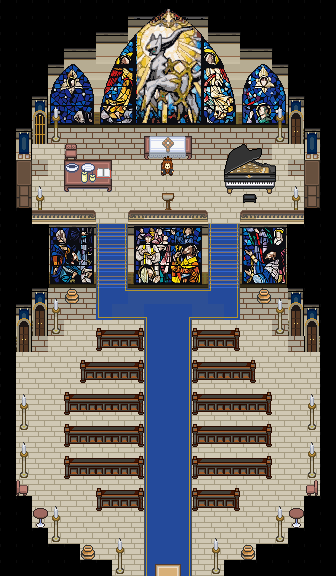
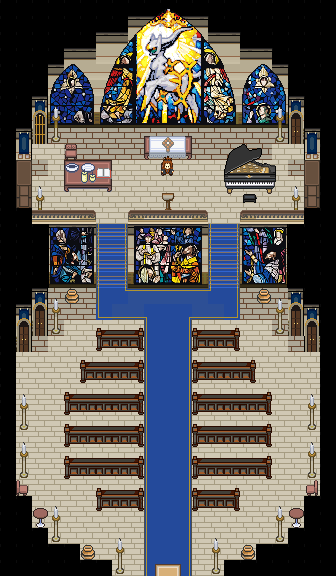
Templar Citadel nave: stained-glass Arceus in Empire's exact glass colours
The nearest-colour swap came out khaki, grey and dusty (user: Empire's gold cells
are (240,184,48)/(243,192,39); the white skin and the background cells too).
Now every pixel of the design is read for what it is (white body, cream halo,
yellow rays, gold wheel, blue, red, green) and given Empire's own glass of that
family, the design's light and shade choosing the shade; dark pixels are Empire's
lead. Every colour is one found in Empire's windows. Also stops the arch fill
leaking onto the wall. Bible updated.

Claude-Session: https://claude.ai/code/session_01FHXnfqnedTHLf5QFbB3MCU

Changed region(s): [[0.3869, 0.0, 0.5952, 0.2188]]

diff --git a/tools/art/templar_hq/glass/arceus_glass.py b/tools/art/templar_hq/glass/arceus_glass.py
@@ -1,85 +1,101 @@
-"""The great window's central light: Arceus in true stained glass, from the user's design (2026-11-23: "look at the
-original Arceus I shared, look at each color on it, then replace that pixel with the appropriately colored stained
-glass cell").
-A straight pixel-for-pixel swap, no re-cutting into panes:
-1. Empire's glass colours: every glass pixel of Empire's windows (the great window's side lights and its tileset's
-   glass), clustered in Lab into ~32 glasses; each glass is its cluster's median, so it is a colour Empire's windows
-   really use. Empire's lead is (12, 13, 18).
-2. The design (the user's mockup, registered on the nave mock: scale 2.13, offset (32, 12.5)) is sampled at game
-   pixels (each the average of its patch).
-3. A game pixel is lead where the design is dark there (luminance < 70); every other pixel is the nearest glass (Lab).
-   A lone lead pixel (one lead neighbour or none) is a hairline broken by the scaling, so it takes its glass.
-4. The region is the central light and the arch above it, filled solid between the frames, so none of the old
-   window's lead survives inside it (that leftover lead was what made earlier tries look speckled). The arch is taken
-   row by row between its outermost bright glass near the axis; the side lights and mullions stay Empire's.
+"""The great window's central light: Arceus in true stained glass, from the user's design.
+User 2026-11-23: "look at the original Arceus I shared, look at each color on it, then replace that pixel with the
+appropriately colored stained glass cell"; and, on a try that matched by nearest colour: Empire's gold cells are
+(240,184,48)/(243,192,39), not khaki; the white skin and the background cells too must be Empire's glass.
+So each pixel of the design (registered on the nave mock: scale 2.13, offset (32, 12.5), sampled per game pixel) is
+read for WHAT it is, then given Empire's own glass for that:
+- dark (luminance < 70) -> Empire's lead (12,13,18); lone lead specks are dropped (hairlines broken by scaling);
+- by hue and saturation -> a glass family: white (Arceus's body), pale (the halo's cream), yellow (the rays), gold
+  (the wheel, the hooves), blue, red, green (eyes, jewels);
+- within a family, the design's lightness picks the shade (its quantiles over the light), dark -> light.
+Every family's shades are exact colours found in Empire's windows (the great window and its tileset's glass), so
+nothing is a blend. The light and the arch above it are filled solid between their frames (none of the old figure's
+lead survives); the arch is taken row by row and can only narrow toward its tip; the side lights stay Empire's.
 Usage: python3 arceus_glass.py MOCK.png OUT.png [LEAD_THRESHOLD]"""
-import sys, os
-import numpy as np
-from PIL import Image
-from skimage.color import rgb2lab
-from scipy.cluster.vq import kmeans2
-REPO = os.path.normpath(os.path.join(os.path.dirname(os.path.abspath(__file__)), '..', '..', '..', '..'))
-EMP = os.path.join(REPO, 'assets/templar_hq_reference/empire')
-USER = os.path.join(EMP, 'user_arceus_window_mockup.png')
-S, OX, OY = 2.13, 32.0, 12.5
-X0, X1, Y0, Y1 = 104, 232, 0, 128
-CX0, CX1, ARCH = 137, 202, 34
-LEAD = np.array((12, 13, 18))
-K = 32
-STONE = {(182, 172, 146), (192, 182, 156), (196, 186, 160), (200, 190, 164), (112, 104, 86), (132, 105, 66),
-         (148, 105, 74), (88, 80, 70), (54, 45, 24), (38, 32, 17), (33, 32, 33), (0, 0, 0)}
-lum = lambda a: .30 * a[..., 0] + .59 * a[..., 1] + .11 * a[..., 2]
-
-def main(mock, out, T=70.0):
-    m = np.array(Image.open(mock).convert('RGB')).astype(int)
-    win = m[Y0:Y1, X0:X1]
-    is_stone = np.array([[tuple(p) in STONE for p in r] for r in win])
-    glass = np.zeros(win.shape[:2], bool)
-    for y in range(win.shape[0]):
-        xs = np.nonzero(~is_stone[y])[0]
-        if len(xs): glass[y, xs.min():xs.max() + 1] = True
-    glass &= ~is_stone
-    xx = np.arange(X0, X1)[None]; yy = np.arange(Y0, Y1)[:, None]
-    region0 = glass & (((xx >= CX0) & (xx < CX1)) | (yy < ARCH))
-    # 1. Empire's glasses
-    pix = [win[glass & ~region0]]
-    tb = np.array(Image.open(os.path.join(EMP, 'empire_church_tileset_b.png')).convert('RGBA'))[0::2, 0::2].astype(int)[:250, :100]
-    ta = np.array(Image.open(os.path.join(EMP, 'empire_church_tileset_a.png')).convert('RGBA'))[0::2, 0::2].astype(int)[75:224]
-    for t in (tb, ta): pix.append(t[t[..., 3] > 0][:, :3])
-    P = np.concatenate(pix); P = P[lum(P) >= 45]
-    _, lab = kmeans2(rgb2lab((P / 255.)[None])[0], K, minit='++', seed=3, iter=50)
-    pal = np.array([np.median(P[lab == j], 0) for j in range(K) if (lab == j).sum() > 20]).astype(int)
-    pal = pal[lum(pal) >= 70]                      # glass only; everything darker is lead
-    PL = rgb2lab((pal / 255.)[None])[0]
-    # 4. the region, filled solid between the frames
-    region = np.zeros_like(region0)
-    for y in range(region0.shape[0]):
-        xs = np.nonzero(region0[y])[0]
-        if len(xs): region[y, xs.min():xs.max() + 1] = True
-    ax = (CX0 + CX1) // 2 - X0
-    inside = np.zeros_like(region); bright = lum(win) > 60
-    for y in range(ARCH):
-        xs = np.nonzero(bright[y])[0]; xs = xs[np.abs(xs - ax) <= 35]
-        if len(xs): inside[y, xs.min():xs.max() + 1] = True
-    region &= inside | (yy >= ARCH)
-    # 2. the design at game pixels
-    u = Image.open(USER).convert('RGB'); pad = Image.new('RGB', (u.size[0] + 200, u.size[1] + 200)); pad.paste(u, (100, 100))
-    box = tuple(v + 100 for v in (X0 * S - OX, Y0 * S - OY, X1 * S - OX, Y1 * S - OY))
-    smp = np.array(pad.resize((X1 - X0, Y1 - Y0), Image.BOX, box=box)).astype(int)
-    # 3. each pixel to its glass, or lead
-    idx = ((rgb2lab(smp / 255.)[:, :, None, :] - PL[None, None]) ** 2).sum(-1).argmin(-1)
-    g = pal[idx]; lead = lum(smp) < T
-    g[lead] = LEAD
-    H, W = lead.shape
+import os
+import numpy as np, sys, colorsys
+from PIL import Image, ImageDraw
+from collections import Counter
+REPO=os.path.normpath(os.path.join(os.path.dirname(os.path.abspath(__file__)),'..','..','..','..'))
+EMP=os.path.join(REPO,'assets/templar_hq_reference/empire')+'/'
+S,OX,OY=2.13,32.0,12.5; X0,X1,Y0,Y1=104,232,0,128; CX0,CX1,ARCH=137,202,34
+LEAD=(12,13,18)
+STONE={(182,172,146),(192,182,156),(196,186,160),(200,190,164),(112,104,86),(132,105,66),(148,105,74),(88,80,70),(54,45,24),(38,32,17),(33,32,33),(0,0,0)}
+lum=lambda a:.30*a[...,0]+.59*a[...,1]+.11*a[...,2]
+# Empire's glasses, by family, dark -> light (every one found in Empire's windows)
+FAM={
+ 'white': [(139,148,183),(189,182,197),(202,202,200),(229,227,231),(255,255,254)],
+ 'pale':  [(250,235,196),(255,253,182),(255,255,228)],
+ 'yellow':[(248,221,14),(255,241,19),(255,255,60)],
+ 'gold':  [(186,88,21),(240,184,48),(243,192,39),(248,221,14)],
+ 'blue':  [(28,44,143),(26,60,145),(7,82,172),(20,103,193),(5,124,198),(61,187,234)],
+ 'red':   [(142,24,27),(200,27,28),(224,36,29)],
+ 'green': [(12,125,108)],
+}
+MOCK,OUT=sys.argv[1],sys.argv[2]
+T=float(sys.argv[3]) if len(sys.argv)>3 else 70
+m=np.array(Image.open(MOCK).convert('RGB')).astype(int)
+win=m[Y0:Y1,X0:X1]
+is_stone=np.array([[tuple(p) in STONE for p in r] for r in win])
+glass=np.zeros(win.shape[:2],bool)
+for y in range(win.shape[0]):
+    xs=np.nonzero(~is_stone[y])[0]
+    if len(xs): glass[y,xs.min():xs.max()+1]=True
+glass&=~is_stone
+xx=np.arange(X0,X1)[None]; yy=np.arange(Y0,Y1)[:,None]
+r0=glass&(((xx>=CX0)&(xx<CX1))|(yy<ARCH))
+region=np.zeros_like(r0)
+for y in range(r0.shape[0]):
+    xs=np.nonzero(r0[y])[0]
+    if len(xs): region[y,xs.min():xs.max()+1]=True
+ax=(CX0+CX1)//2-X0; inside=np.zeros_like(region)
+wallc={tuple(p) for p in win[0:ARCH,0:8].reshape(-1,3)}|{tuple(p) for p in win[0:ARCH,-8:].reshape(-1,3)}
+bright=(lum(win)>60)&~np.array([[tuple(p) in wallc for p in r] for r in win])
+for y in range(ARCH):
+    xs=np.nonzero(bright[y])[0]; xs=xs[np.abs(xs-ax)<=35]
+    if len(xs): inside[y,xs.min():xs.max()+1]=True
+# an arch only narrows toward its tip: no row wider than the row below it
+for y in range(ARCH-2,-1,-1):
+    inside[y]&=inside[y+1] if inside[y+1].any() else False
+region&=inside|(yy>=ARCH)
+u=Image.open(EMP+'user_arceus_window_mockup.png').convert('RGB'); pad=Image.new('RGB',(u.size[0]+200,u.size[1]+200)); pad.paste(u,(100,100))
+smp=np.array(pad.resize((X1-X0,Y1-Y0),Image.BOX,box=tuple(v+100 for v in (X0*S-OX,Y0*S-OY,X1*S-OX,Y1*S-OY)))).astype(int)
+H,W=smp.shape[:2]
+fam=np.empty((H,W),object); val=np.zeros((H,W))
+for y in range(H):
+    for x in range(W):
+        r,g,b=smp[y,x]/255.; h,s,v=colorsys.rgb_to_hsv(r,g,b); h*=360; val[y,x]=v
+        if lum(smp[y,x])<T: f='lead'
+        elif s<0.20: f='white'
+        elif 38<=h<75 and s<0.50 and v>0.78: f='pale'
+        elif 46<=h<75 and v>=0.72: f='yellow'
+        elif 15<=h<75: f='gold'
+        elif 75<=h<170: f='green'
+        elif 170<=h<290: f='blue'
+        else: f='red'
+        fam[y,x]=f
+# lone specks of a family (no 8-neighbour of the same family) take their neighbours' family
+for _ in range(2):
+    f2=fam.copy()
     for y in range(H):
         for x in range(W):
-            if lead[y, x] and region[y, x] and lead[max(0, y - 1):y + 2, max(0, x - 1):x + 2].sum() - 1 <= 1:
-                g[y, x] = pal[idx[y, x]]
-    outw = win.copy(); outw[region] = g[region]
-    o = m.copy(); o[Y0:Y1, X0:X1] = outw
-    Image.fromarray(o.astype(np.uint8)).save(out)
-    Image.fromarray(o.astype(np.uint8)).resize((o.shape[1] * 2, o.shape[0] * 2), Image.NEAREST).save(out.replace('.png', '_2x.png'))
-    print(f'{len(pal)} glasses + lead; lead {(g[region] == LEAD).all(-1).mean():.2f} of the light')
-
-if __name__ == '__main__':
-    main(sys.argv[1], sys.argv[2], float(sys.argv[3]) if len(sys.argv) > 3 else 70.0)
+            if not region[y,x]: continue
+            nb=[fam[yy_,xx_] for yy_ in range(max(0,y-1),min(H,y+2)) for xx_ in range(max(0,x-1),min(W,x+2)) if (yy_,xx_)!=(y,x)]
+            if fam[y,x] not in nb: f2[y,x]=Counter(nb).most_common(1)[0][0]
+    fam=f2
+out=win.copy()
+for f,shades in FAM.items():
+    sel=(fam==f)&region
+    if not sel.any(): continue
+    vs=val[sel]; n=len(shades)
+    qs=np.quantile(vs,np.linspace(0,1,n+1)[1:-1]) if n>1 else []
+    k=np.searchsorted(qs,val[sel]) if n>1 else np.zeros(sel.sum(),int)
+    out[sel]=np.array(shades)[k]
+out[(fam=='lead')&region]=LEAD
+o=m.copy(); o[Y0:Y1,X0:X1]=out
+Image.fromarray(o.astype(np.uint8)).save(OUT)
+Image.fromarray(o.astype(np.uint8)).resize((o.shape[1]*2,o.shape[0]*2),Image.NEAREST).save(OUT.replace('.png','_2x.png'))
+a=Image.fromarray(smp.astype(np.uint8)); b=Image.fromarray(out.astype(np.uint8))
+c=Image.new('RGB',(W*2+4,H),(20,20,20)); c.paste(a,(0,0)); c.paste(b,(W+4,0))
+c.resize((c.size[0]*4,c.size[1]*4),Image.NEAREST).save(OUT.replace('.png','_vs_design.png'))
+print(Counter(fam[region]).most_common())

diff --git a/bible/20_chapter1_build.md b/bible/20_chapter1_build.md
@@ -254,7 +254,7 @@ Chapter 1 is the template: once its foundations (mechanics, maps, buildings, NPC
     - **Decided (user 2026-11-22):** a dead-end side branch off Route 13's fork (Route 15 east closed by a guard); a curtain wall with an open arch and two guards, no hallway map; the ground **stony with touches of snow** (less snowy than Mirroh or Mt. Mirroh, like Fort Elderflower's paving with drifts). Zone plan v1: `tools/art/templar_hq/layout_sketch.py`. **The church is not Crown's cathedral** (Mirroh's chapel uses it; no other source hack has a second one, survey in `assets/templar_hq_reference/cathedral_options.png`): **the Arceus church from Pokémon Empire's Starlight City** (user-supplied; **credit Pokémon Empire before release**), **its front building only** (user: shed the domed hall behind it): the cross tower, the great dome and the rose-window front, cut at the GBA's scale (the source is a 2x upscale) by `tools/art/templar_hq/church/cut_front.py`, **7x13 tiles, native size** (user). **In Arceus's colours** (user: gold and blue, echoing Arceus): the great dome blue; gold on the ring cradling the cross tower (Arceus's wheel), the dome's ribs, both small dome caps and the cross; cream walls, door and stained glass kept (`colourise.py`; `assets/templar_hq_reference/church_arceus_v1.png`).
     - **The courtyard (mock v6, user 2026-11-22; `tools/art/templar_hq/citadel_mock.py`, `assets/templar_hq_reference/citadel_mock_v6_2x.png`):** built on one axis after studying MonoMyth's and Crown's squares (Watercress Port, Chamomile, Wood Avens, Crown's harbour town: a symmetric axis, the main building raised on a terrace with a centred stair, a framed square, houses in mirrored pairs, nothing scattered) and Fort Elderflower's snow (no trees inside paved courts; pines outside in loose clusters of big and small; broad stepped snow patches in the open stone; walking lines bare). The church on a crenellated terrace, its stair on the axis; **a fountain square** (Crown 3.0's tiered fountain) with **four worn stone Arceus statues on its corners** (the expansion's Arceus follower sprite, its side frame, recoloured to weathered grey stone; the left pair facing left, the right pair right; user); the arch, the road down. **The houses in a dark, deep grey wood** (user: so they stand out; Crown 3.2's timber recoloured, glass and lit windows kept), in mirrored pairs: the Tavern and its twin below, two small houses on ledges above, each up a stair centred on its door. **The west pocket: a sparring ground** (user): a railed yard (Crown's rail fence in the grey wood), MonoMyth's Old Bay target stands, Templars sparring (stage 2). **The east pocket: the Braviary landing ground** (user): a round stone pad inlaid with Arceus's golden wheel (drawn), hay by the wall, **Braviaries moving about in the overworld** (user; the expansion's Braviary follower sprite; stage 2 objects). Access: a 3-wide street runs down from each ledge beside the Tavern and its twin to the square (the user's rule: no squeezing). The gate (mock v6, user 2026-11-22): an open gateway, the curtain wall ending in a round tower each side with nothing across (the wall's top carried over the gap read as a broken wall); outside it a paved apron where the two guards stand, clear of the pines. The landing pad centred in the open square above the Tavern's twin (x 29-33, half a tile down); no hay. **The way east to Route 15 (user 2026-11-22): a whole line of Templar guards across the cleft** (one on each of its three rows) blocks it for now. Spoken to, they say **there has been an incident on Route 15, they are observing the situation, and until something changes nobody is allowed in or out that way** (stage 2: their script; the condition that opens it comes with Route 15's chapter). **The buildings (user 2026-11-22):** the Tavern (lower west), **the barracks** (its twin, lower east), **the armoury** (upper west, above the sparring ground), **the Braviary mews** (upper east, above the landing ground).
     - **Built and walked (2026-11-22):** `MAP_TEMPLAR_CITADEL` (`TemplarCitadel`, 40x40; `tools/art/templar_hq/build_citadel.py` from `citadel_mock.py`; its own tileset pair, 12 palettes, 643 tiles; `MAPSEC_DR_TEMPLAR_HQ`, snow; music for now Route 13's, `MUS_DR_MM_ROUTE15`). **Reached from Route 13's north-east exit by a short fade**, as Hollow Hill's way north reaches Mirroh Gate: triggers on Route 13's top row (x 32-34) warp to the Citadel's road (x 18-20, row 38), and on the Citadel's bottom row back. (A map connection was tried and the Citadel came up scrambled in the game: the engine reloads only the new map's secondary tileset across a connection, since connected maps are meant to share a primary, and draws the neighbour's visible strip with the current map's tiles; the Citadel has its own primary.) Collision: paving and stairs walked on, the landing pad too; cliffs, walls, buildings, statues, the fountain, lamps, fences, targets solid; outside the wall only the road and the guards' apron. **The doors stay shut until the interiors exist** (next). The stair's foot has no lamps: with the statues and the fountain they closed it off from the square. **The line of three Templar guards across the cleft to Route 15 is in** (objects; their line as the user gave it). Walked in the game: from Route 13 in, the gateway, the square, up the church stair to its door, both streets and ledge stairs, the sparring yard, the landing pad, both lower doors, the guards (they block and speak), and back down to Route 13 (`assets/templar_hq_reference/ingame_citadel_walk.png`).
-    - **The Citadel's story (user 2026-11-22; stages 2-4):** it stands in **a stone hollow of the Mirroh mountains**, an **open courtyard** before the church, with **Templars outside in the courtyard and inside the church**. **Loulan** (the Templar the player helped on Route 11) **reappears inside**: she has told Archbishop Ambrose about the player, comes up to them, thanks them again for the Eiscue, and **guides them further in, to the heart of the cathedral**, where **the player first meets Archbishop Ambrose Caymen**, who speaks with them. **The interior has two levels (user 2026-11-22):** the **first floor**, the cathedral as its central room with **four offices around it**, off cloister walks either side (user: **Ambrose's study**, **the Braviary registry**, **the bishops' chambers**, and **the kitchen and storehouse** where the Templars stock food and feed themselves: the prime cathedral's kitchen and stores; floor plan v1, `tools/art/templar_hq/interior_sketch.py`); **the nave from Pokémon Empire's Arceus church interior** (user 2026-11-23, supplied with its tileset; credit Pokémon Empire; mock v2, `tools/art/templar_hq/nave/nave_mock_v2.py`, `assets/templar_hq_reference/nave_mock_v2_2x.png`; a first try from Crown's round hall was set aside): its raised chancel behind a balustrade (the altar where Ambrose waits, the lectern, the communion table, the piano, three great stained-glass windows), **the great window's central light is an Arceus in stained glass** (user 2026-11-23, from the user's own design, `assets/templar_hq_reference/empire/user_arceus_window_mockup.png`, replacing Empire's robed figure; mock v3, `assets/templar_hq_reference/nave_mock_v3_2x.png`, `arceus_glass_vs_design.png`): **a straight pixel-for-pixel swap** (user: look at each colour of the design and replace that pixel with the stained-glass colour that fits), every pixel the nearest of Empire's own glass colours (its windows' glass clustered to 27 glasses) or Empire's lead where the design is dark; the light filled solid between its frames so none of the old figure's lead shows through (`tools/art/templar_hq/glass/arceus_glass.py`; tries that re-cut the design into panes looked jumbled and were dropped), a stair down either side of the low window, the nave of pews down the Order's blue carpet; its brick floor and wooden wall tops recoloured to the church's cream stone; **six doors in its south-facing wall faces** (where banners hung): on the chancel, west **the sealed stair to the Sanctum** (a gold grille) and east **Ambrose's study**; at the head of the nave **the bishops' chambers** (west) and **the Braviary registry** (east), then **the kitchen** (west) and **the storehouse** (east). For the kitchen: a stove the user liked, from a MonoMyth house (`assets/templar_hq_reference/empire/monomyth_stove_room.png`; to find in its ROM). **a stair from the cathedral room up to the Sanctum**, the top of the cross tower (its trio of stained-glass windows and the cross above), known simply as **the Sanctum**. This makes the Citadel the natural place for **the Opal-for-Warding-Ring exchange** (the player carries the Sparkling Opal from Pelluca's shrine); 8d's Ambrose, inspecting the ice ruins in Pelluca, comes after. **Required before Mt. Mirroh (user 2026-11-22):** a Templar on Route 13's trail to Mt. Mirroh turns the player back until they have met Ambrose (stage 4 sets the flag). **Loulan leads the player to the cathedral's altar** (the head of the first floor's central room), where Ambrose waits (user); the Sanctum is for later. **The Sanctum (user 2026-11-22): a special area unlocked later, a place of reflection, and a library**: a holy room to commune with Arceus that is also **a lost repository of knowledge and secret tomes** (its look drawn from the source hacks' libraries and archives: **Fantasma's castle library**, its mapsec 1 layout s001_b68c, the sister of the room Kimaris's chamber was made from; three arched alcoves of books, lecterns with open tomes, a writing desk, candelabras, and **a glowing circle in the floor where the shadow self rises**; recoloured to the church's cream stone, its skull banners to the Order's blue with Arceus's golden wheel, its two narrow windows to stained glass, the circle to the church's gold and glass blue, the cobwebs kept since it is a lost repository; `tools/art/templar_hq/sanctum/sanctum_mock.py`, `assets/templar_hq_reference/sanctum_mock_v1_3x.png`; Fantasma's art is public assets, no credit needed (user 2026-11-22)), with one striking feature: the player can **fight their shadow self**, a copy of the player with **their exact team, slightly above the current level cap**; **winning earns interesting rewards**. **Unlocked by defeating Archbishop Ambrose** in the Archbishop fight of the Ambrose Caymen Arc (14_story_spine.md: Act III closing / Act IV opening, after Osrid foils the bishops' coup; Ambrose with Temperance and Brunhilda), user 2026-11-22. **The shadow-self challenge (user 2026-11-22): an optional quest, three fights in the whole game**, each opened by a condition; the player is **pinged when the Sanctum can be entered again** (how: `[OPEN]`):
+    - **The Citadel's story (user 2026-11-22; stages 2-4):** it stands in **a stone hollow of the Mirroh mountains**, an **open courtyard** before the church, with **Templars outside in the courtyard and inside the church**. **Loulan** (the Templar the player helped on Route 11) **reappears inside**: she has told Archbishop Ambrose about the player, comes up to them, thanks them again for the Eiscue, and **guides them further in, to the heart of the cathedral**, where **the player first meets Archbishop Ambrose Caymen**, who speaks with them. **The interior has two levels (user 2026-11-22):** the **first floor**, the cathedral as its central room with **four offices around it**, off cloister walks either side (user: **Ambrose's study**, **the Braviary registry**, **the bishops' chambers**, and **the kitchen and storehouse** where the Templars stock food and feed themselves: the prime cathedral's kitchen and stores; floor plan v1, `tools/art/templar_hq/interior_sketch.py`); **the nave from Pokémon Empire's Arceus church interior** (user 2026-11-23, supplied with its tileset; credit Pokémon Empire; mock v2, `tools/art/templar_hq/nave/nave_mock_v2.py`, `assets/templar_hq_reference/nave_mock_v2_2x.png`; a first try from Crown's round hall was set aside): its raised chancel behind a balustrade (the altar where Ambrose waits, the lectern, the communion table, the piano, three great stained-glass windows), **the great window's central light is an Arceus in stained glass** (user 2026-11-23, from the user's own design, `assets/templar_hq_reference/empire/user_arceus_window_mockup.png`, replacing Empire's robed figure; mock v3, `assets/templar_hq_reference/nave_mock_v3_2x.png`, `arceus_glass_vs_design.png`): **pixel for pixel, each pixel given the Empire glass for what it is** (user: look at each colour of the design and replace that pixel with the stained-glass cell that fits; a try that took the *nearest* colour came out khaki and grey, and the user pointed to Empire's gold cells, (240,184,48)/(243,192,39)): dark pixels Empire's lead; the rest read by hue into a family, white for the body, cream for the halo, yellow for the rays, gold for the wheel, blue, red, teal-green for eyes and jewels, and the design's light and shade picks which of that family's shades, every shade an exact colour of Empire's windows; the light filled solid between its frames so none of the old figure's lead shows through (`tools/art/templar_hq/glass/arceus_glass.py`; tries that re-cut the design into panes looked jumbled and were dropped), a stair down either side of the low window, the nave of pews down the Order's blue carpet; its brick floor and wooden wall tops recoloured to the church's cream stone; **six doors in its south-facing wall faces** (where banners hung): on the chancel, west **the sealed stair to the Sanctum** (a gold grille) and east **Ambrose's study**; at the head of the nave **the bishops' chambers** (west) and **the Braviary registry** (east), then **the kitchen** (west) and **the storehouse** (east). For the kitchen: a stove the user liked, from a MonoMyth house (`assets/templar_hq_reference/empire/monomyth_stove_room.png`; to find in its ROM). **a stair from the cathedral room up to the Sanctum**, the top of the cross tower (its trio of stained-glass windows and the cross above), known simply as **the Sanctum**. This makes the Citadel the natural place for **the Opal-for-Warding-Ring exchange** (the player carries the Sparkling Opal from Pelluca's shrine); 8d's Ambrose, inspecting the ice ruins in Pelluca, comes after. **Required before Mt. Mirroh (user 2026-11-22):** a Templar on Route 13's trail to Mt. Mirroh turns the player back until they have met Ambrose (stage 4 sets the flag). **Loulan leads the player to the cathedral's altar** (the head of the first floor's central room), where Ambrose waits (user); the Sanctum is for later. **The Sanctum (user 2026-11-22): a special area unlocked later, a place of reflection, and a library**: a holy room to commune with Arceus that is also **a lost repository of knowledge and secret tomes** (its look drawn from the source hacks' libraries and archives: **Fantasma's castle library**, its mapsec 1 layout s001_b68c, the sister of the room Kimaris's chamber was made from; three arched alcoves of books, lecterns with open tomes, a writing desk, candelabras, and **a glowing circle in the floor where the shadow self rises**; recoloured to the church's cream stone, its skull banners to the Order's blue with Arceus's golden wheel, its two narrow windows to stained glass, the circle to the church's gold and glass blue, the cobwebs kept since it is a lost repository; `tools/art/templar_hq/sanctum/sanctum_mock.py`, `assets/templar_hq_reference/sanctum_mock_v1_3x.png`; Fantasma's art is public assets, no credit needed (user 2026-11-22)), with one striking feature: the player can **fight their shadow self**, a copy of the player with **their exact team, slightly above the current level cap**; **winning earns interesting rewards**. **Unlocked by defeating Archbishop Ambrose** in the Archbishop fight of the Ambrose Caymen Arc (14_story_spine.md: Act III closing / Act IV opening, after Osrid foils the bishops' coup; Ambrose with Temperance and Brunhilda), user 2026-11-22. **The shadow-self challenge (user 2026-11-22): an optional quest, three fights in the whole game**, each opened by a condition; the player is **pinged when the Sanctum can be entered again** (how: `[OPEN]`):
       1. after first defeating Ambrose (the Ambrose Caymen Arc);
       2. after speaking with **Alban** again once the **Wo-Chien incident at the Alban estate** is dealt with (the Trial 6 chapter: Indrid Alban, House Alban; Wo-Chien is the Treasure bound to the tablets);
       3. after conquering **all nine Trials**.
